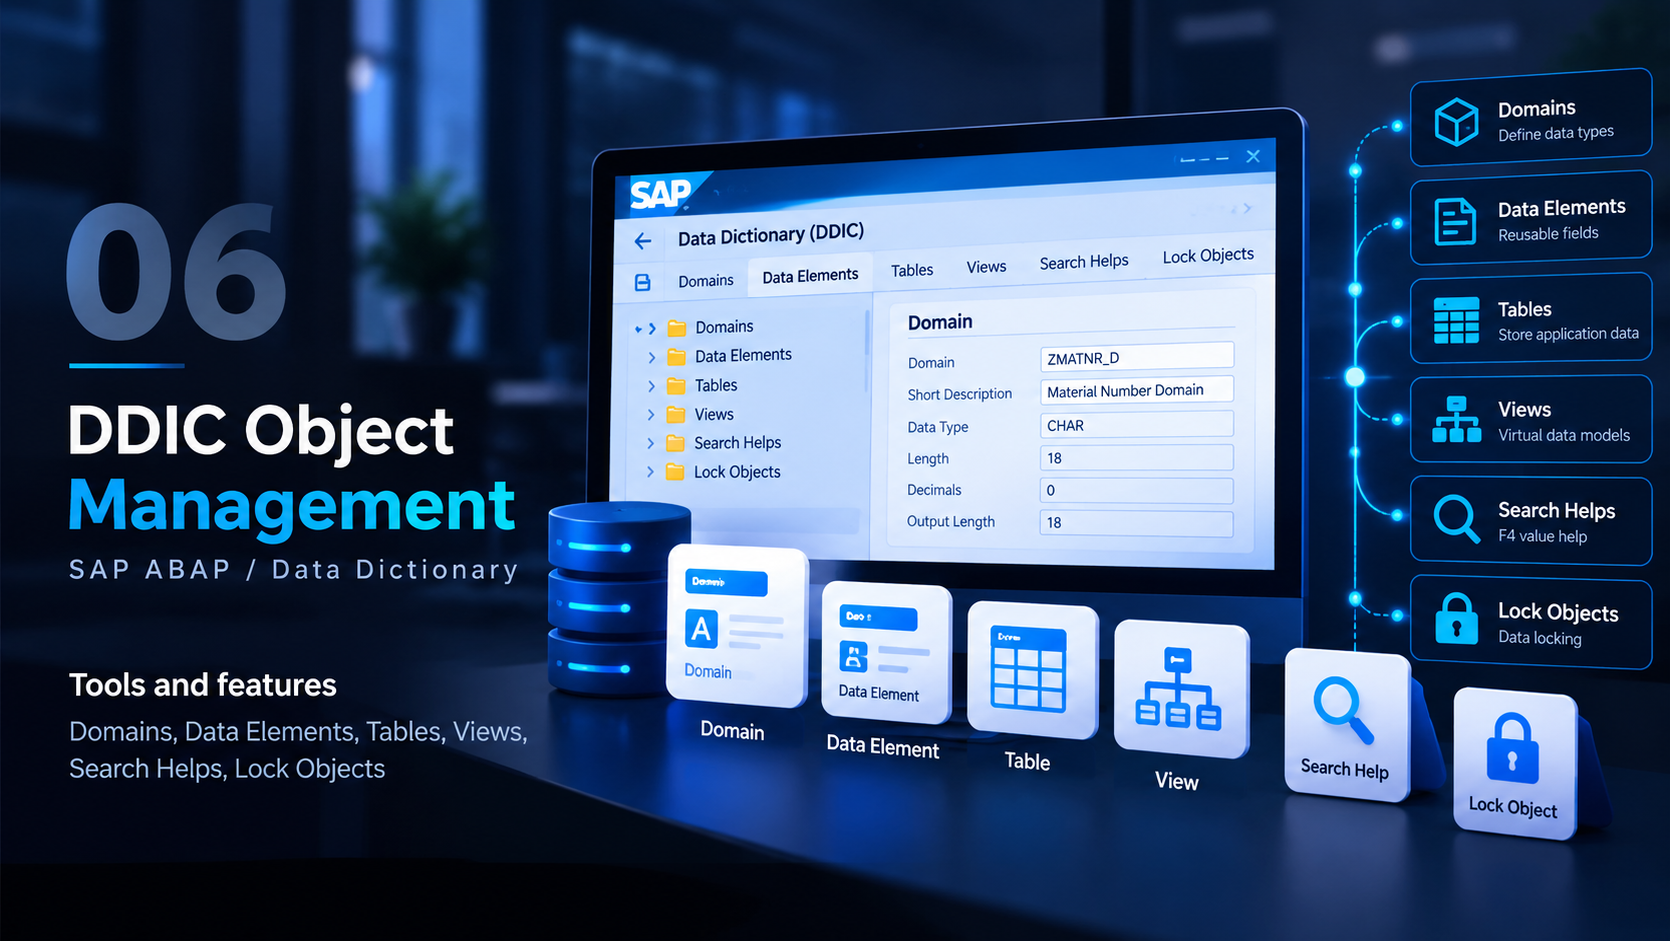
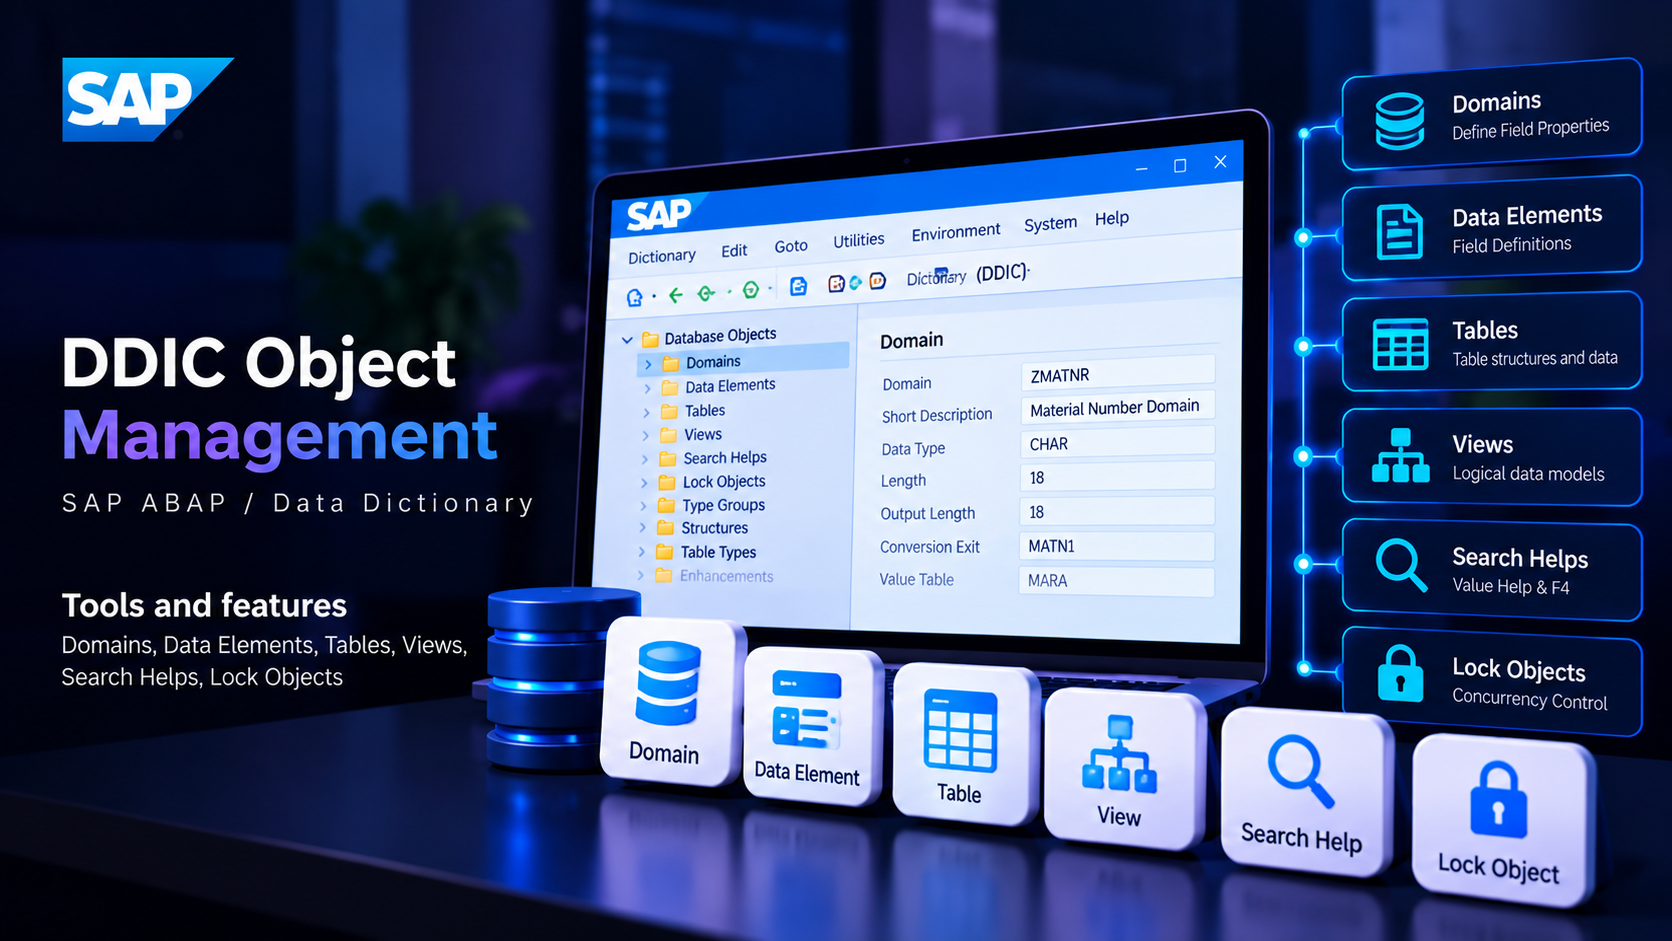
IMGS CHANGED

diff --git a/src/components/Work.tsx b/src/components/Work.tsx
@@ -30,12 +30,14 @@ const projects = [
   },
   {
     num: "03",
-    name: "Material Master Upload",
-    category: "SAP ABAP / BDC & BAPI",
-    tools: "BDC, BAPI_MATERIAL_SAVEDATA, Session Method, Call Transaction",
+    name: "Medical AI Expert",
+    category: "AI / RAG-Based Chatbot",
+    tools:
+      "Python, Flask, RAG, Groq LLM, LLaMA 3, Pinecone, HuggingFace, OpenStreetMap",
     description:
-      "Implemented BDC programs for Material Master creation through MM01 using Session Method and Call Transaction, with a BAPI-based upload solution.",
-    image: "/images/BDC.png",
+      "Developed a full-stack AI medical assistant using Retrieval-Augmented Generation (RAG) with Groq LLM, LLaMA 3, and Pinecone vector database for context-aware clinical Q&A, custom medical document retrieval, and an integrated hospital locator.",
+    image: "/images/medical-ai-expert-01.png",
+    link: "https://medicalassistance-nmk.onrender.com/",
   },
   {
     num: "04",
@@ -47,6 +49,35 @@ const projects = [
       "A content-based Movie Recommendation System built using Python, Scikit-learn, FastAPI, Streamlit, and the TMDB API. It recommends movies using TF-IDF vectorization and Cosine Similarity while providing movie details, posters, genres, and metadata through TMDB.",
     image: "/images/movie.png",
     link: "https://movie-recomendation-project.onrender.com",
+  },
+  {
+    num: "06",
+    name: "SAP Enhancement Framework",
+    category: "SAP ABAP / Enhancements",
+    tools: "User Exits, Customer Exits, BAdIs, Implicit/Explicit Enhancements",
+    description:
+      "Worked with the SAP Enhancement Framework, implementing User Exits, Customer Exits, BAdIs, and Implicit/Explicit Enhancements for custom business logic.",
+    image: "/images/ENH.png",
+  },
+  {
+    num: "07",
+    name: "DDIC Object Management",
+    category: "SAP ABAP / Data Dictionary",
+    tools:
+      "Domains, Data Elements, Tables, Views, Search Helps, Lock Objects",
+    description:
+      "Created and managed SAP Data Dictionary objects including Domains, Data Elements, Structures, Tables, Views, Search Helps, Lock Objects, and Table Maintenance Generators.",
+    image: "/images/DDIC.png",
+  },
+  {
+    num: "08",
+    name: "ALV Report Suite",
+    category: "SAP ABAP / Reports",
+    tools:
+      "Selection Screens, Parameters, Select-Options, Internal Tables, Open SQL",
+    description:
+      "Developed comprehensive ABAP Reports and ALV reports using Selection Screens, Parameters, Select-Options, Internal Tables, Work Areas, and Open SQL queries.",
+    image: "/images/ALV.png",
   },
 ];
 
